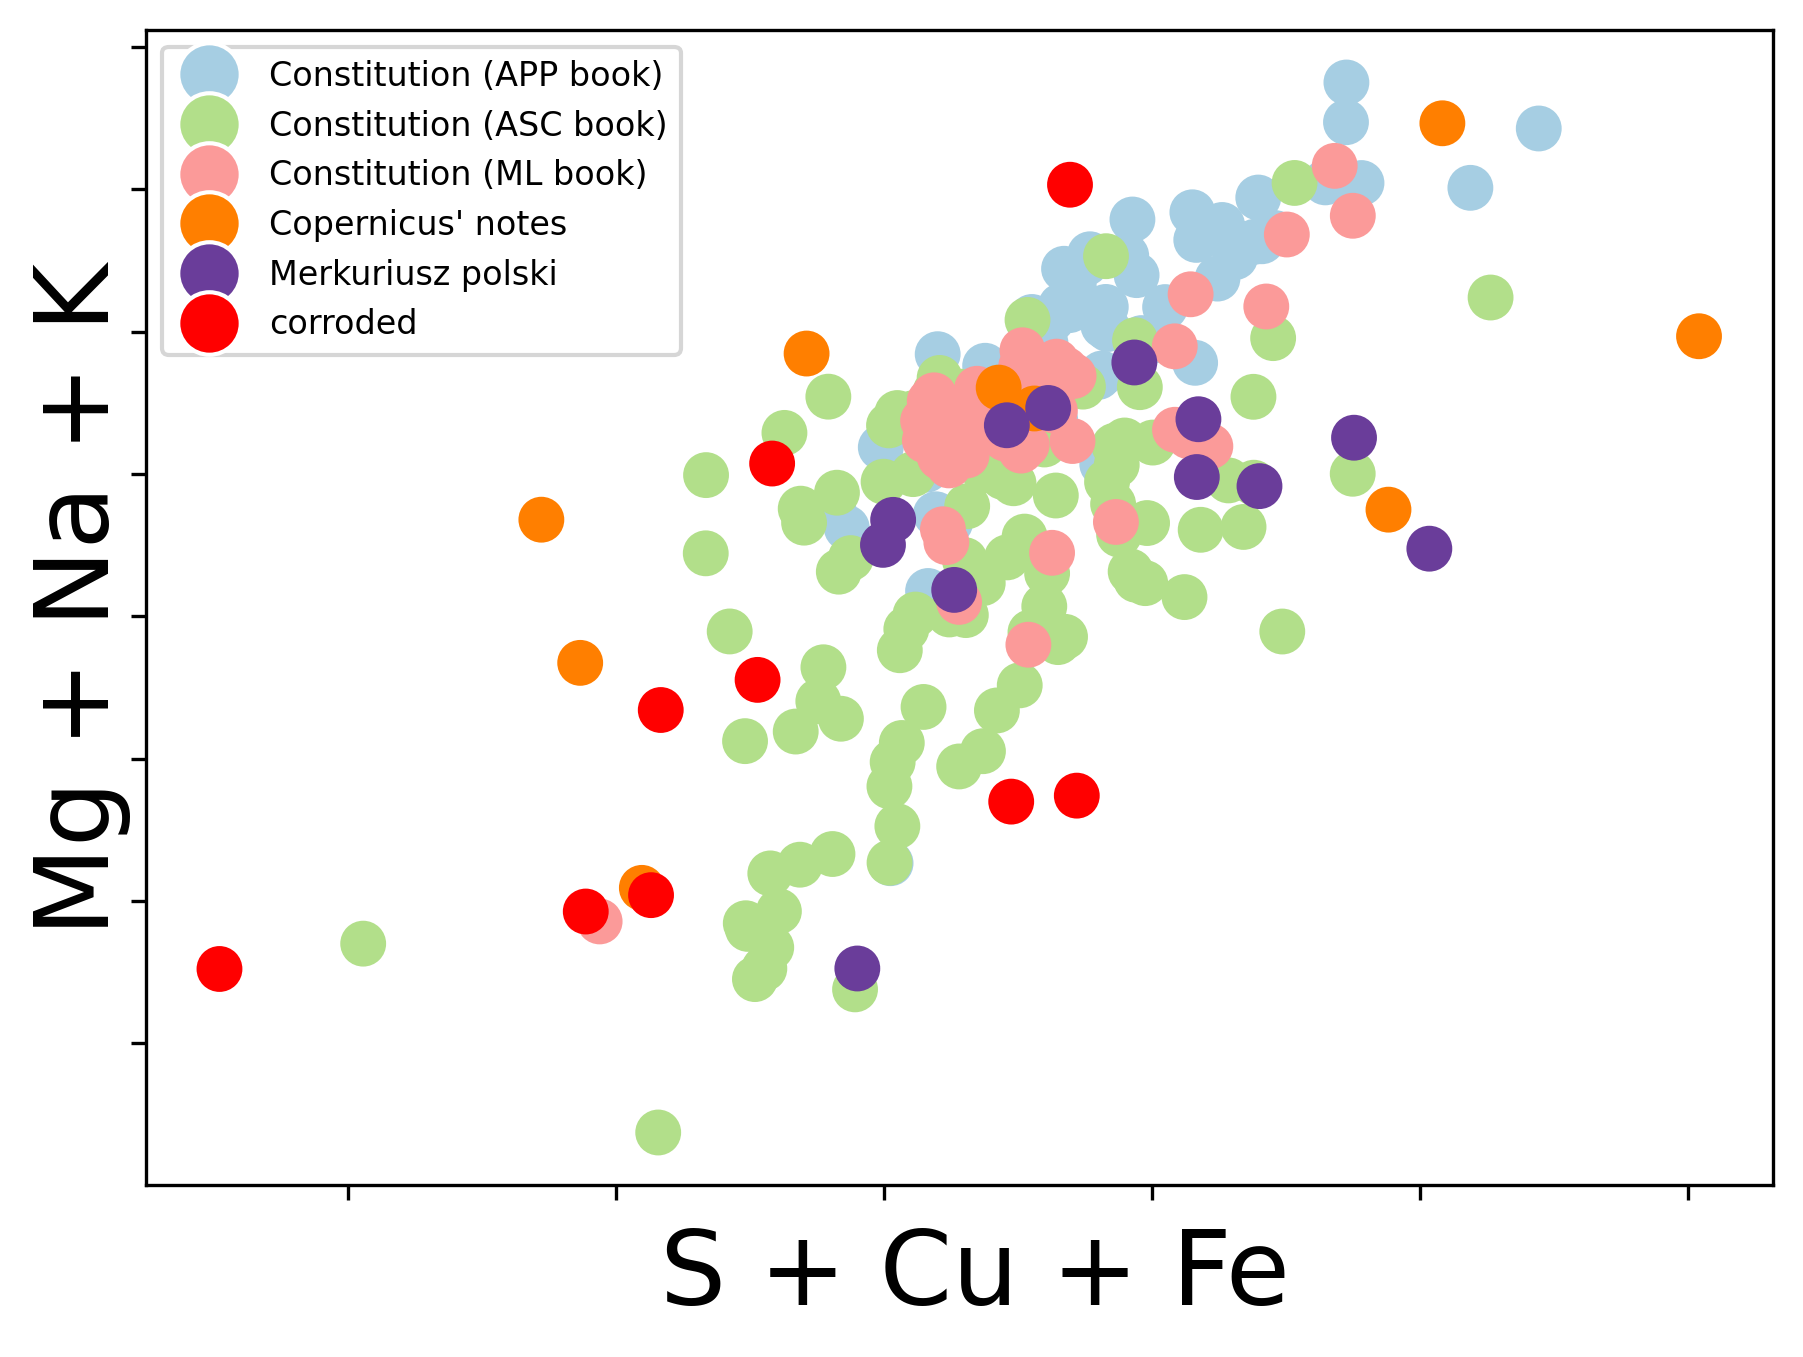
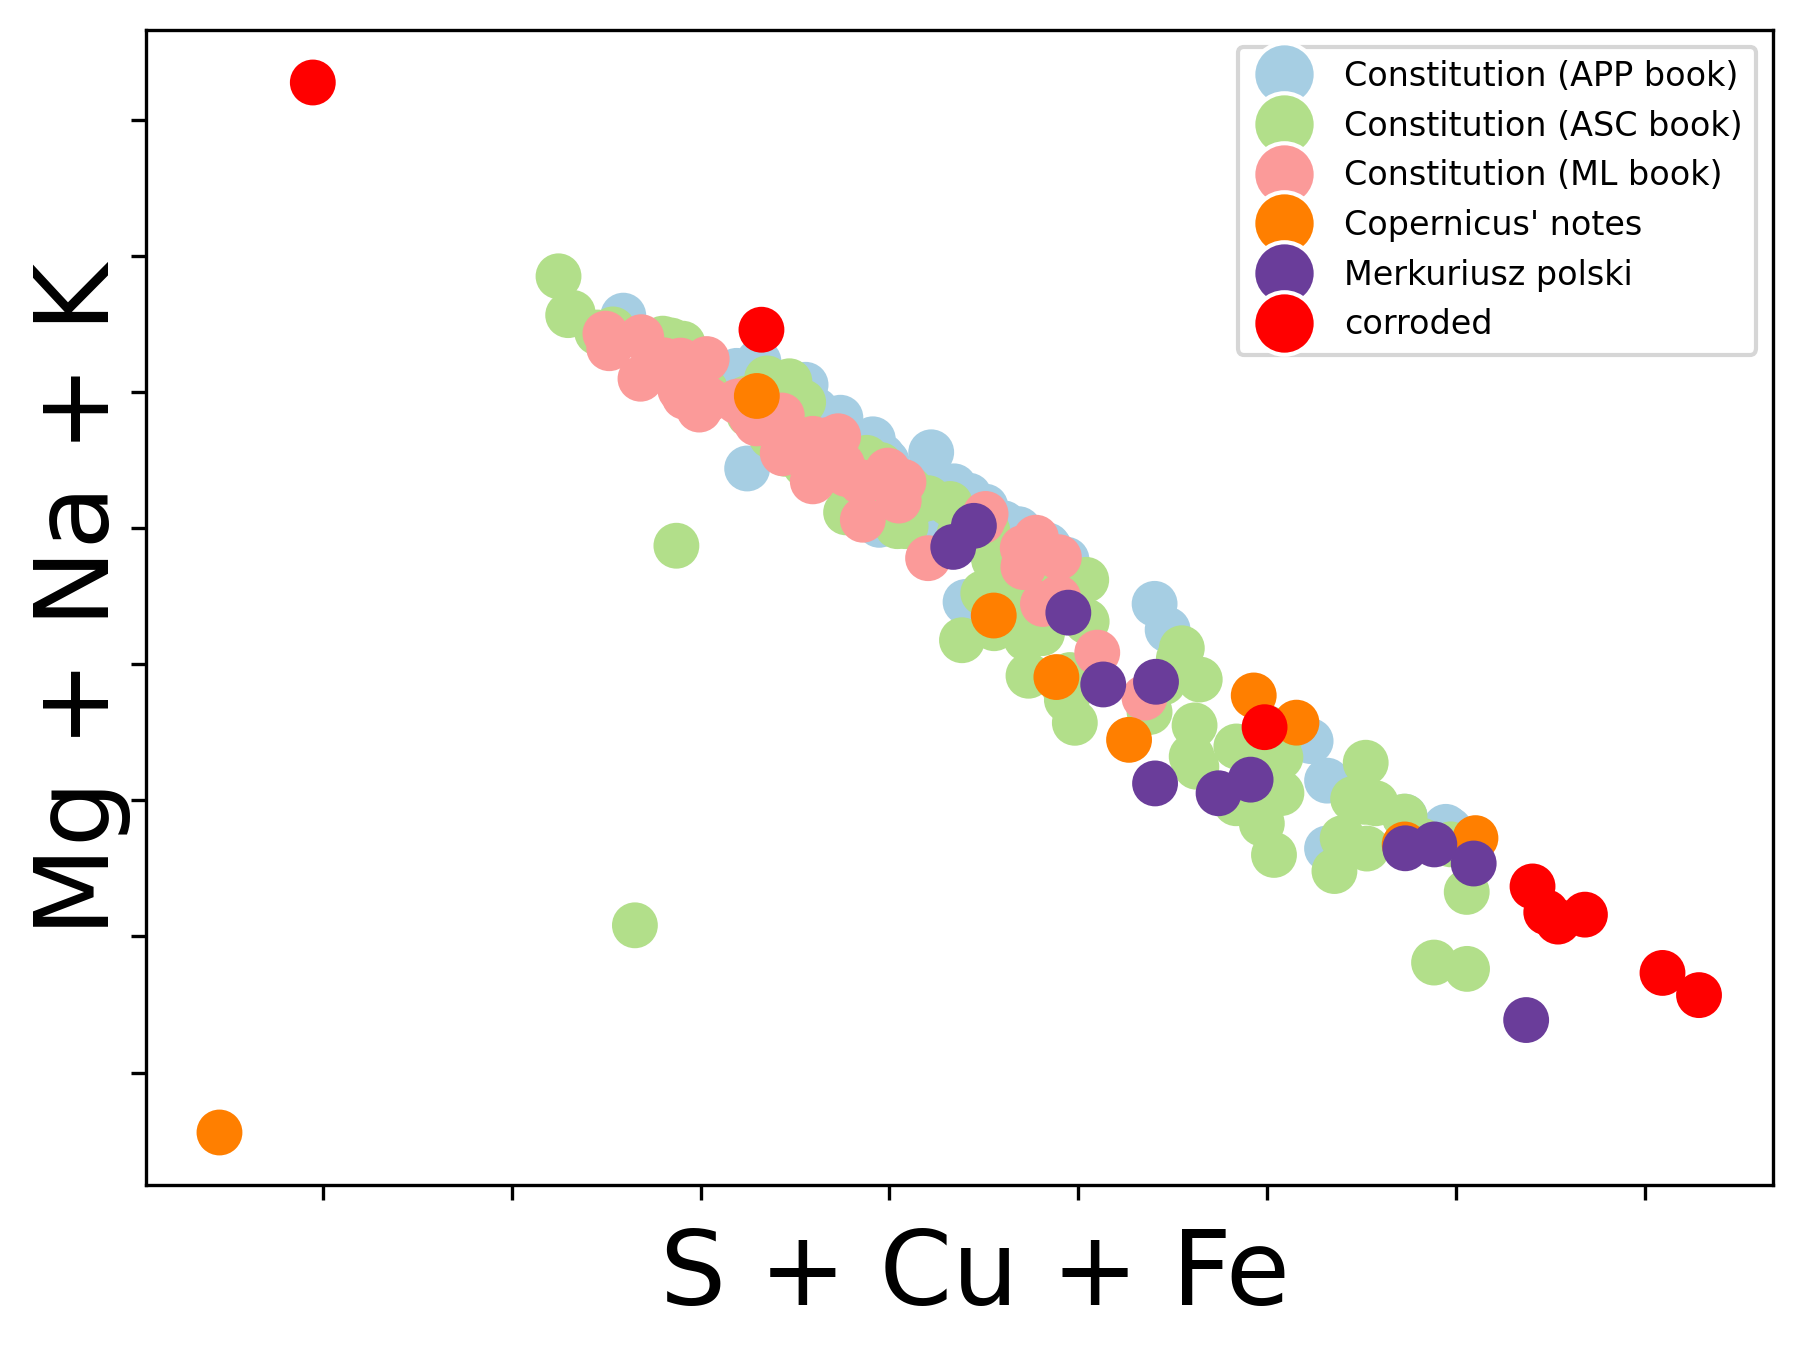
Added normalisation to total

diff --git a/analysis/6_prediction_visualisations.py b/analysis/6_prediction_visualisations.py
@@ -150,9 +150,10 @@ df, y_true = join_datasets_into_one(
                             short_name=False
                             )
 
-df, y_true = groupby_and_get_mean_of_first_n(df, y_true)
+df = normalise_to_total(df)
+df, y_true = groupby_and_get_mean_of_first_n(df, y_true, n=10)
 
-y_true = y_true.apply(lambda x: re.split(r'(\d+|\.|UR)', x)[0] if x.startswith('Konstytucja') else x.split('_')[0])
+y_true = truncate_names(y_true)
 y_true = translate_names(y_true, OFFICIAL_NAMES_DICT)
 X = np.array(df.values)
 
@@ -161,6 +162,8 @@ visualise_selected_axis(
                         y_true,
                         ELEMENTS_TO_KEEP,
                         cmap=plt.get_cmap('Paired'),
+                        dimensions_horizontal = [1, 4, 7],
+                        dimensions_vertical = [8, 9, 10],
                         path_to_save=FIGURES_PATH
                         )
 
@@ -171,8 +174,12 @@ df, y_true = join_datasets_into_one(
                             ELEMENTS_TO_KEEP_NO_FE if NORMALISATION_TO_FE else ELEMENTS_TO_KEEP,
                             short_name=False
                             )
-y_true = y_true.apply(lambda x: re.split(r'(\d+|\.|UR)', x)[0] if x.startswith('Konstytucja') else x.split('_')[0])
+
+df = normalise_to_total(df)
+df, y_true = groupby_and_get_mean_of_first_n(df, y_true, n=10)
+
+y_true = truncate_names(y_true)
 y_true = translate_names(y_true, OFFICIAL_NAMES_DICT)
 X = np.array(df.values)
 
-visualise_clustering_on_heatmap(X, y_true.values, ELEMENTS_TO_KEEP_NO_FE if NORMALISATION_TO_FE else ELEMENTS_TO_KEEP, colormap=cm.Paired, show_legend=True, figures_path=FIGURES_PATH)
+visualise_clustering_on_heatmap(X, y_true.values, ELEMENTS_TO_KEEP_NO_FE if NORMALISATION_TO_FE else ELEMENTS_TO_KEEP, colormap=cm.Paired, col_cluster=False, show_legend=True, figures_path=FIGURES_PATH)

diff --git a/src/data_utils.py b/src/data_utils.py
@@ -6,6 +6,7 @@ from torch.utils.data import Dataset, DataLoader
 import matplotlib.pyplot as plt
 from matplotlib.pyplot import cm
 from matplotlib.lines import Line2D
+from matplotlib.colors import LogNorm, Normalize
 import seaborn as sns
 import math
 from collections import Counter
@@ -162,6 +163,14 @@ def normalise_to_Fe(any_df, elements_to_keep, remove_Fe=False, suffixes=['', '_i
         any_df = any_df.drop(columns=['Fe' + suffix for suffix in suffixes])
 
     return any_df
+
+def normalise_to_total(df):
+    df = np.exp(df)/(np.exp(df).sum(1)).values.reshape(-1,1)
+    return df
+
+def truncate_names(y_true):
+    y_true = y_true.apply(lambda x: re.split(r'(\d+|\.|UR)', x)[0] if x.startswith('Konstytucja') else x.split('_')[0])
+    return y_true
 
 
 def create_partition(inDKs_df, random_state=3):
@@ -755,7 +764,7 @@ def join_datasets_into_one(
 
     return df, y_true
 
-def visualise_clustering_on_heatmap(X, y, elements_to_keep, colormap=cm.tab20, figsize=(6,5), show_classes_names=False, show_legend=False, figures_path=None):
+def visualise_clustering_on_heatmap(X, y, elements_to_keep, colormap=cm.tab20, figsize=(6,5), show_classes_names=False, show_legend=False, row_cluster=True, col_cluster=True, figures_path=None):
 
     y_true = pd.Series(y)
     y_true = y_true.rename('          ')
@@ -777,12 +786,13 @@ def visualise_clustering_on_heatmap(X, y, elements_to_keep, colormap=cm.tab20, f
 
     cg = sns.clustermap(
         heatmap_df,
-        row_cluster=True,
-        col_cluster=True,
+        row_cluster=row_cluster,
+        col_cluster=col_cluster,
         row_colors=row_colors,
         dendrogram_ratio=0.1,
         colors_ratio=0.05,
         figsize=figsize,
+        norm=LogNorm(),
         cbar_pos=None
     )
 
